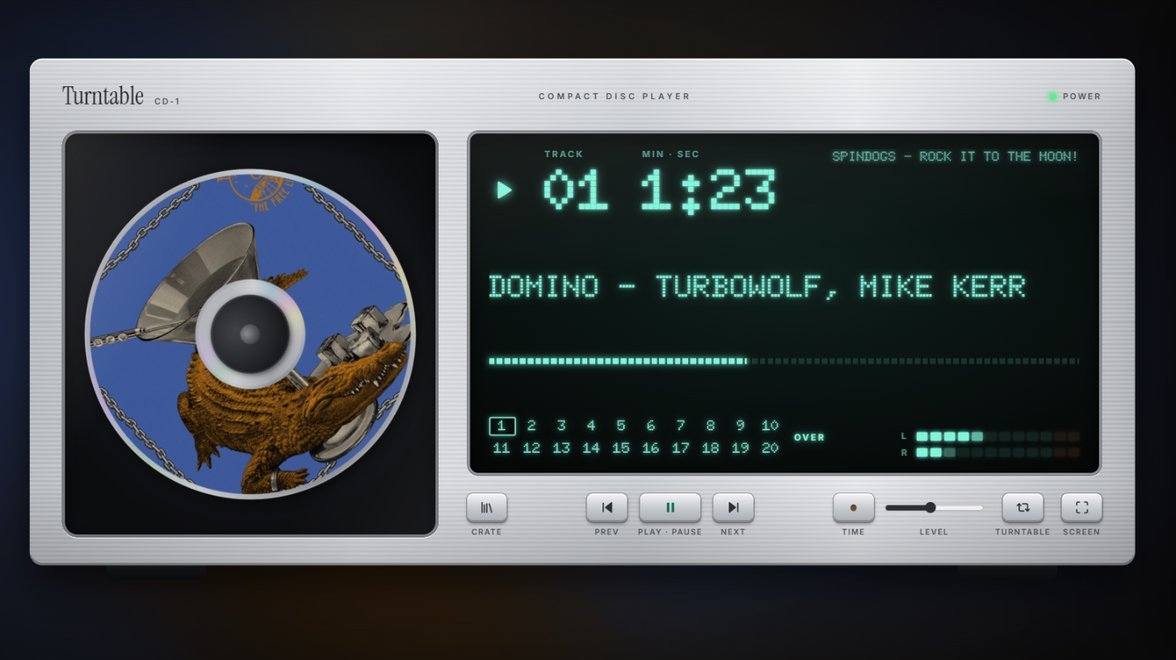
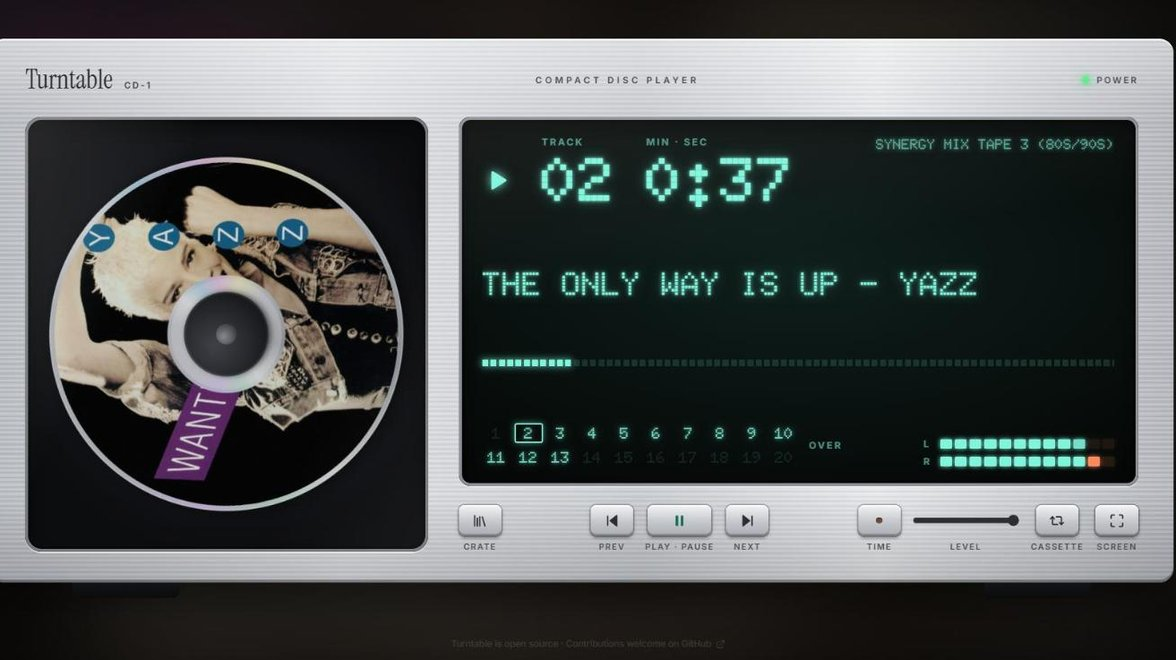
README: cassette and Winamp screenshots, and refresh the other three
All five from the same playback session, cropped to 1176x660 like the
last set, so each theme button names the theme that now follows it.

diff --git a/README.md b/README.md
@@ -10,6 +10,10 @@ A fullscreen record player for a spare screen. Album art spins as the record lab
 
 ![The CD theme: a silver hi-fi deck with the album art printed on the spinning disc, and a teal dot-matrix display showing track, time, title, track calendar and level meter](docs/cd.jpg)
 
+![The cassette theme: a black tape deck with the album art as the cassette label, piano keys with no skip buttons, a tape counter and a level meter](docs/cassette.jpg)
+
+![The Winamp theme: a green LCD main window with spectrum analyser and scrolling title, a playlist editor, and the album art in its own window](docs/winamp.jpg)
+
 ## Setup
 
 Everyone uses their own Spotify app (free to create). Spotify only lets an app in Development Mode be used by its owner and a few allowlisted people, so one shared app can't serve everybody. Premium is required.
